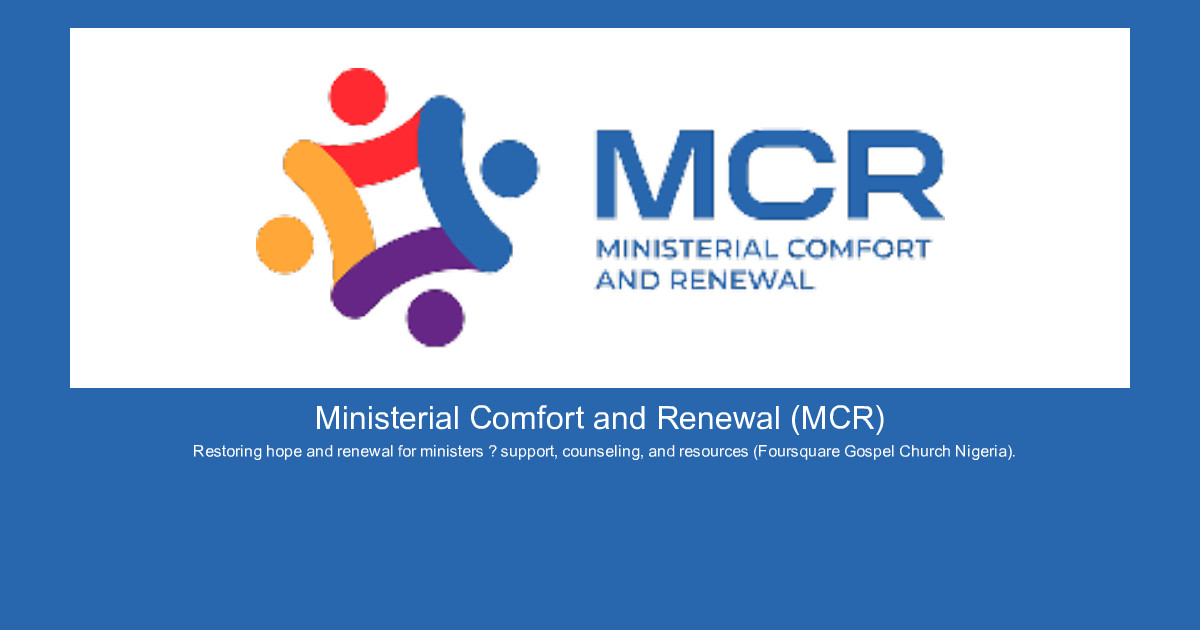
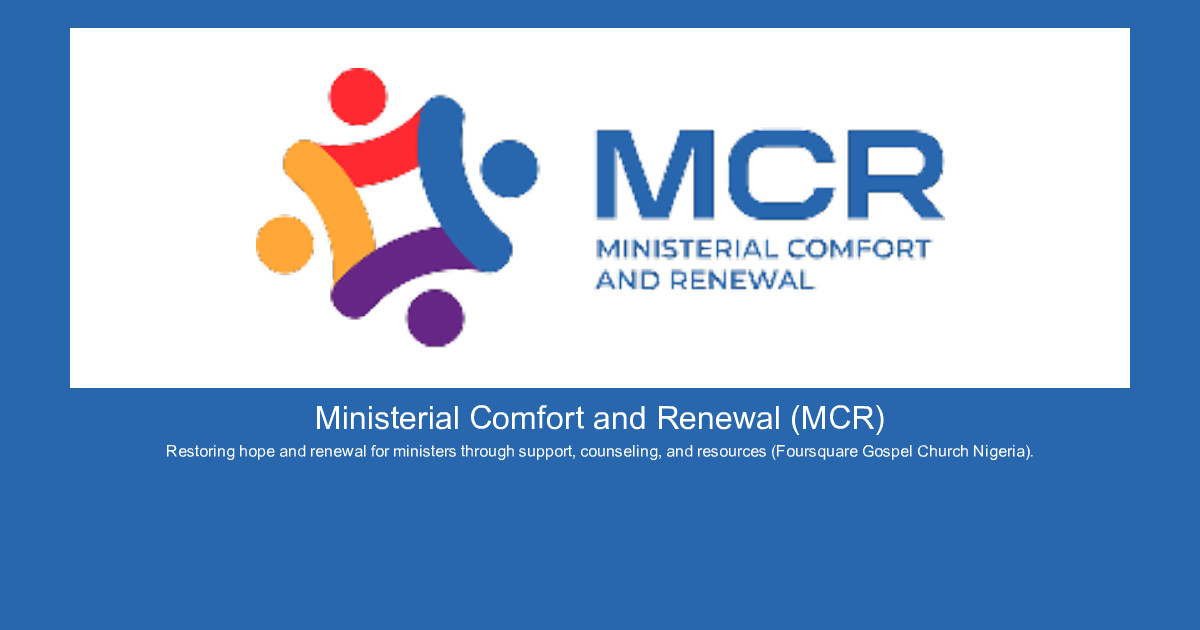
remove ai generated dash

Changed region(s): [[0.1233, 0.6937, 0.8633, 0.754]]

diff --git a/components/Services.tsx b/components/Services.tsx
@@ -30,7 +30,7 @@ export default function Services() {
             ) : (
               <p className="text-lg text-slate-600 md:text-xl leading-relaxed">
                 {servicesContent?.pageIntro ??
-                  'MCR works through four pillars—emotional health awareness, emotionally healthy living, multi-disciplinary counseling, and rest & recovery—bringing education, practical care, and space to heal for ministers.'}
+                  'MCR works through four pillars: emotional health awareness, emotionally healthy living, multi-disciplinary counseling, and rest & recovery, bringing education, practical care, and space to heal for ministers.'}
               </p>
             )}
           </div>

diff --git a/app/layout.tsx b/app/layout.tsx
@@ -39,7 +39,7 @@ export const metadata: Metadata = {
         url: DEFAULT_OG_IMAGE_PATH,
         width: 1200,
         height: 630,
-        alt: `${SITE_NAME} — share preview`,
+        alt: `${SITE_NAME}, share preview`,
       },
     ],
   },

diff --git a/app/page.tsx b/app/page.tsx
@@ -26,7 +26,7 @@ export const metadata: Metadata = {
         url: DEFAULT_OG_IMAGE_PATH,
         width: 1200,
         height: 630,
-        alt: `${SITE_NAME} — share preview`,
+        alt: `${SITE_NAME}, share preview`,
       },
     ],
   },
